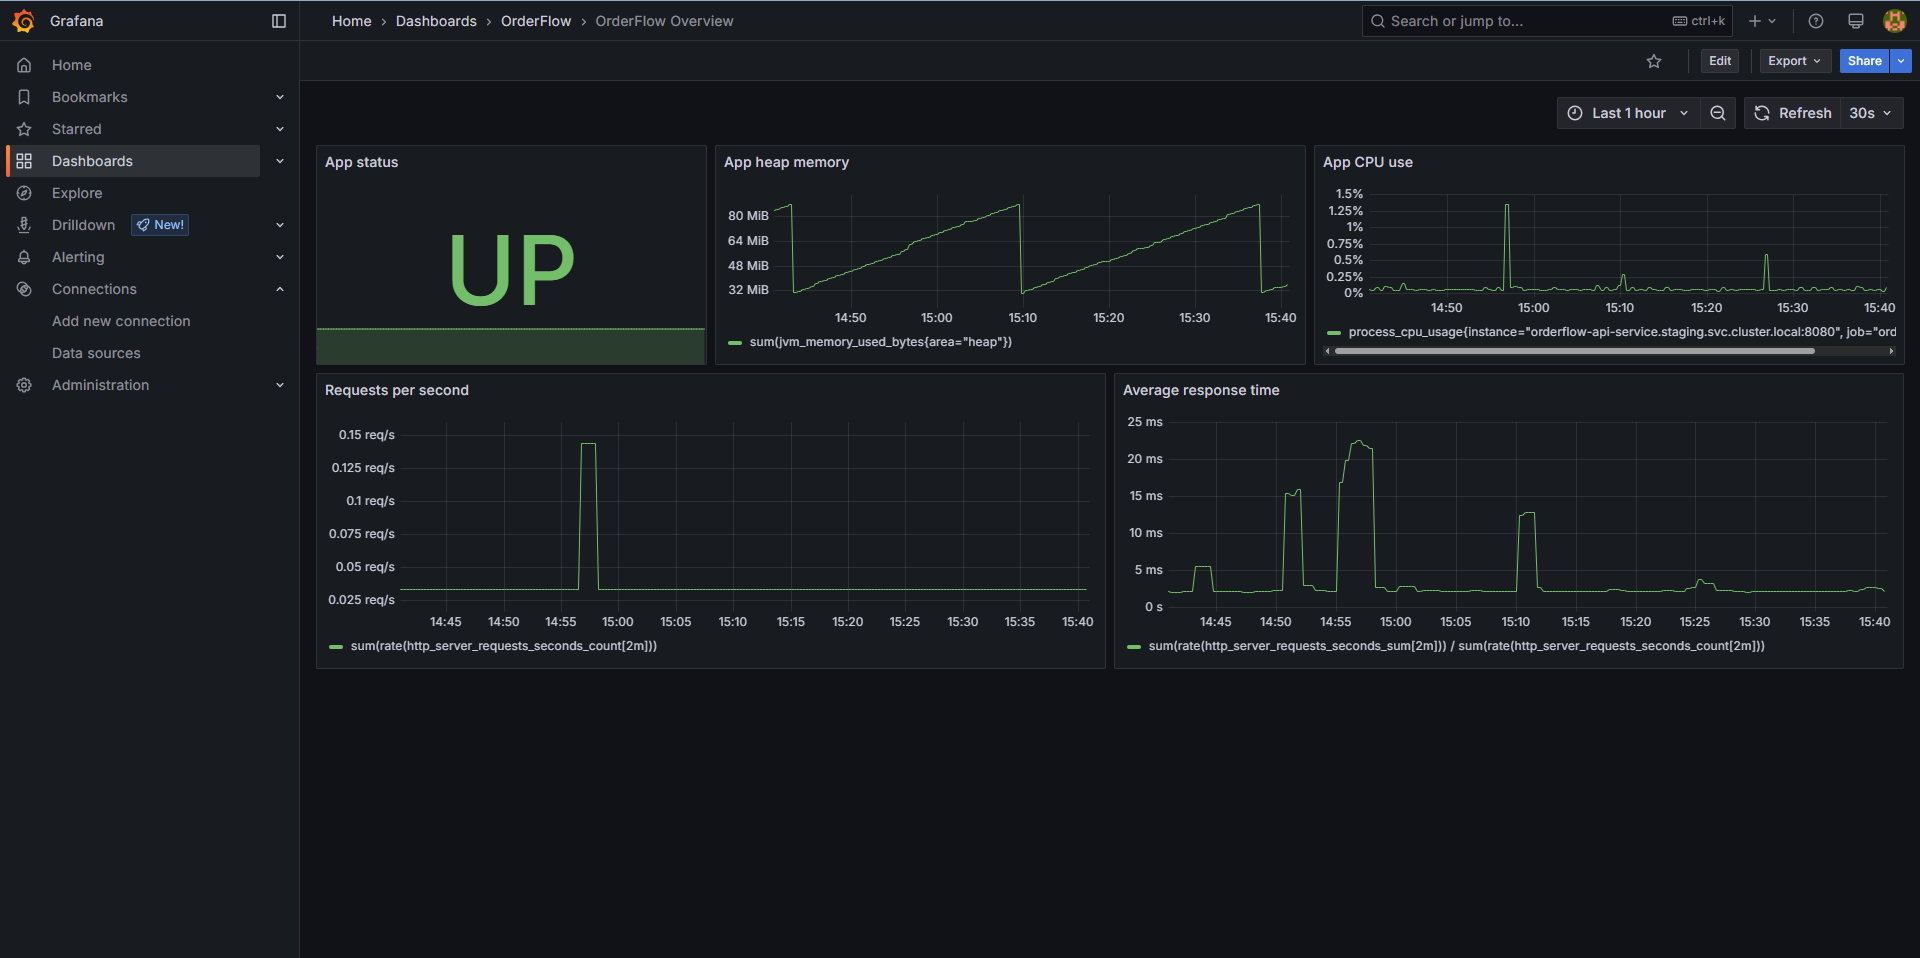
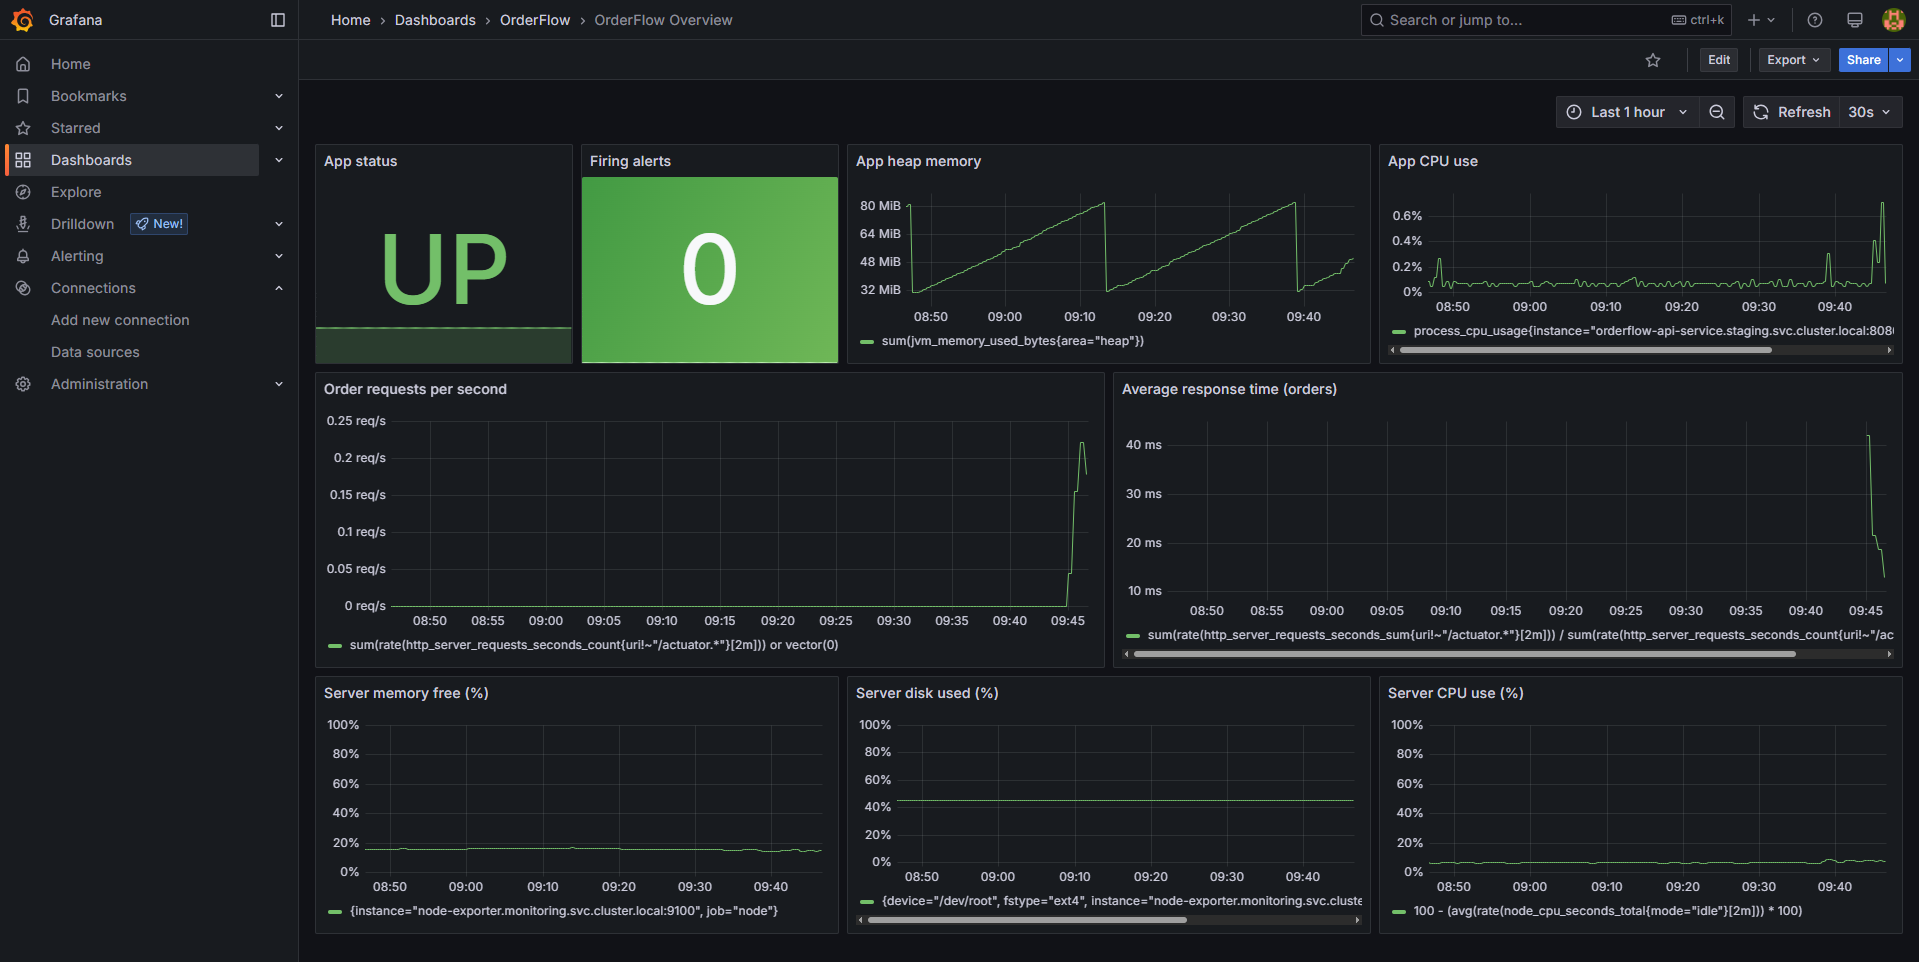
Phase 6: Add alert rules, firing-alerts panel, server panels and screenshots

diff --git a/README.md b/README.md
@@ -25,13 +25,13 @@ Built so far:
 - Terraform with a reusable network module
 - GitHub Actions builds the Docker image and pushes it to ECR using OIDC (no stored AWS keys)
 - Secrets in AWS SSM Parameter Store, loaded into Kubernetes Secrets/ConfigMaps
-- Prometheus + Grafana, with the dashboard stored as a file in this repo
+- Prometheus, Grafana and node-exporter, with the dashboard and alert rules stored as files in this repo
 
 Planned:
 
 - Terraform remote state (S3 + DynamoDB locking)
 - Automatic deploys, an approval gate, and a production namespace
-- Server-level metrics and alerting
+- Alert notifications (email or Slack)
 - Budget alert and auto-shutdown
 
 ## Cost decisions (and why)
@@ -51,15 +51,21 @@ Planned:
 - [x] Phase 3 - Application (Spring Boot + Postgres + SQS worker)
 - [x] Phase 4 - CI/CD: GitHub Actions builds and pushes the image to ECR (deploy is still manual; approval gate and prod promotion are planned)
 - [x] Phase 5 - Secrets management (SSM Parameter Store + Kubernetes Secrets)
-- [ ] Phase 6 - Observability (app dashboard done; server metrics and alerting in progress)
+- [x] Phase 6 - Observability (Prometheus, Grafana, node-exporter, alert rules)
 - [ ] Phase 7 - Cost controls (budget alert, auto-shutdown)
 - [ ] Phase 8 - Final polish (diagram, evidence, LinkedIn post)
 
 ## Monitoring
 
-Prometheus scrapes the app's metrics and Grafana shows them on an OrderFlow dashboard that is loaded from a file in this repo, so it comes back after every restart.
+Prometheus scrapes the app and the server. Grafana shows them on an OrderFlow dashboard that is loaded from a file in this repo, so it comes back after every restart.
 
 ![OrderFlow Grafana dashboard](docs/grafana-dashboard.png)
+
+Three alert rules watch for the app being down, low server memory, and a nearly full disk. The app-down rule was tested by switching the app off on purpose:
+
+![Alert firing](docs/alert-firing.png)
+
+Alerts currently show inside Grafana only. Sending them to email or Slack is planned.
 
 ## Tech stack
 
